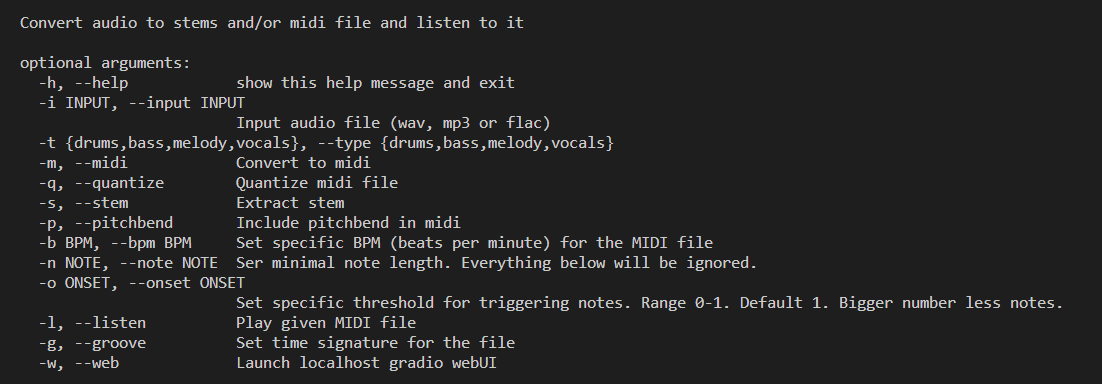
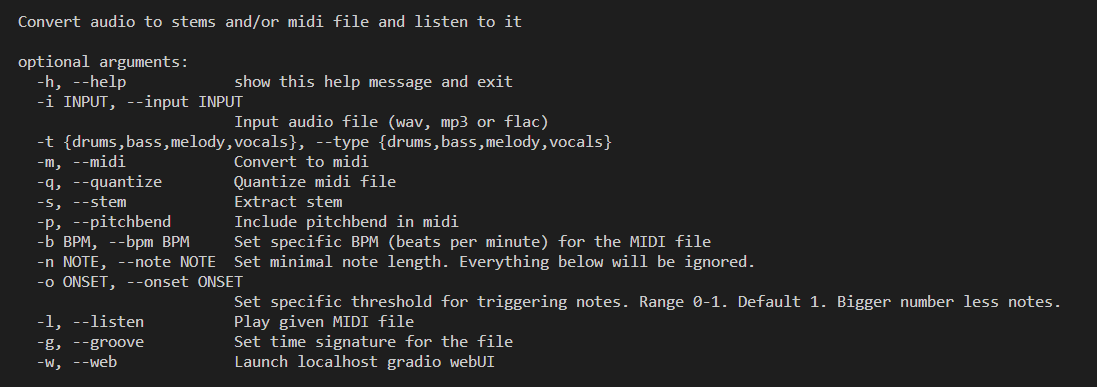
UI changes and spelling errors

diff --git a/MIDIfren.py b/MIDIfren.py
@@ -36,7 +36,7 @@ def main():
     parser.add_argument("-s", "--stem", help="Extract stem", action="store_true")
     parser.add_argument("-p", "--pitchbend", help="Include pitchbend in midi", action="store_true")
     parser.add_argument("-b", "--bpm", type=float, help="Set specific BPM (beats per minute) for the MIDI file")
-    parser.add_argument("-n", "--note", type=float, help="Ser minimal note length. Everything below will be ignored.")
+    parser.add_argument("-n", "--note", type=float, help="Set minimal note length. Everything below will be ignored.")
     parser.add_argument("-o", "--onset", type=float, help="Set specific threshold for triggering notes. Range 0-1. Default 1. Bigger number less notes.")
     parser.add_argument("-l", "--listen", help="Play given MIDI file", action="store_true")
     parser.add_argument("-g", "--groove", help="Set time signature for the file", action="store_true")
